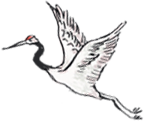
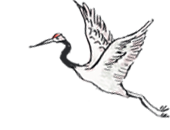
Signed-off-by: zhangbo8264 <zhangbo8264@163.com>

Changed region(s): [[0.0, 0.0, 1.0, 0.9917]]

diff --git a/main.html b/main.html
@@ -107,6 +107,7 @@
 		        <img class="p2-sun run" id="sun01" src="images/sun.png" /> 
 		        <img class="bird run" id="bird01" src="images/bird.png" />
 		        <img class="bird run" id="bird02" src="images/crane-n.png" />
+		        <img class="bird run" id="bird03" src="images/crane-x.png" />
 		        <div class="run" id="tree">
 		        	<img class="tree" src="images/tree.png" />
 		        	<img class="run flower" id="flower01" src="images/flower.png" />
@@ -134,6 +135,22 @@
 						<img class="p3-text run" id="pt04" src="images/team.png" />
 					</div>
 				</div>
+				<div class="boat" id="boat">
+					<img class="p3-boat run" id="p3-boat" src="images/boat.png" />
+					<div>
+						<img class="p3-text run" id="pt05" src="images/team.png" />
+						<img class="p3-text run" id="pt06" src="images/team.png" />
+						<img class="p3-text run" id="pt07" src="images/team.png" />
+					</div>
+				</div>
+				<!-- <div class="boat">
+					<img class="p3-boat run" id="p3-boat" src="" />
+					<div>
+						<img class="p3-text run" id="pt08" src="images/team.png" />
+						<img class="p3-text run" id="pt09" src="images/team.png" />
+						<img class="p3-text run" id="pt00" src="images/team.png" />
+					</div>
+				</div> -->
 	    	</div>
 	    </section>
 
@@ -149,9 +166,6 @@
 			}
 		};
 		
-
-
-
 
 		var fadeCss=function(t,o,definedCss){
 			return 'top:'+t+'px;opacity:'+o+';';
@@ -221,7 +235,7 @@
 		bgAction('text05',[0.5,0.7],'bottom',50);
 		bgAction('text06',[0.6,0.8],'bottom',50);
 		bgAction('text07',[0.7,0.9],'bottom',50);
-		bgAction('text08',[0.8,0.1],'bottom',50);
+		bgAction('text08',[0.8,1],'bottom',50);
 		document.getElementById('text09').set=function(set,w,h,W,H){
 			set.begin({
 				per: 0.9,
@@ -258,6 +272,79 @@
 				x: W,
 				y: 0.5*H-0.5*h,
 				opacity:1
+			}).then({
+				per: 0.43,
+				x: W*0.84,
+				y: (H-h)*0.43,
+				opacity:0
+			}).then({
+				per: 0.46,
+				x: W*0.70,
+				y: (H-h)*0.36,
+				opacity:1
+			}).then({
+				per: 0.49,
+				x: W*0.56,
+				y: (H-h)*0.29,
+				opacity:0
+			}).then({
+				per: 0.52,
+				x: W*0.42,
+				y: (H-h)*0.22,
+				opacity:1
+			}).then({
+				per: 0.55,
+				x: W*0.28,
+				y: (H-h)*0.15,
+				opacity:0
+			}).then({
+				per: 0.58,
+				x: W*0.14,
+				y: (H-h)*0.08,
+				opacity:1
+			}).end({
+				per:0.6,
+				x: 0,
+				y: 0,
+				opacity:0
+			});
+		};
+		document.getElementById('bird03').set = function(set,w,h,W,H){
+			set.begin({
+				per: 0.4,
+				x: W,
+				y: (H-h),
+				opacity:0
+			}).then({
+				per: 0.43,
+				x: W*0.84,
+				y: (H-h)*0.43,
+				opacity:1
+			}).then({
+				per: 0.46,
+				x: W*0.70,
+				y: (H-h)*0.36,
+				opacity:0
+			}).then({
+				per: 0.49,
+				x: W*0.56,
+				y: (H-h)*0.29,
+				opacity:1
+			}).then({
+				per: 0.52,
+				x: W*0.42,
+				y: (H-h)*0.22,
+				opacity:0
+			}).then({
+				per: 0.55,
+				x: W*0.28,
+				y: (H-h)*0.15,
+				opacity:1
+			}).then({
+				per: 0.58,
+				x: W*0.14,
+				y: (H-h)*0.08,
+				opacity:0
 			}).end({
 				per:0.6,
 				x: 0,

diff --git a/css/style.css b/css/style.css
@@ -344,7 +344,7 @@ section{position:absolute;top:0;right:0;bottom:0;left:0;}
 	max-width:80px;margin-left:-40px;
 }
 
-.bird{opacity:0; 
+.bird{position:absolute;top:0;left:0;opacity:0; 
 		-webkit-transform:scale(2,2);
 		transform:scale(2,2);
 }
@@ -378,7 +378,7 @@ section{position:absolute;top:0;right:0;bottom:0;left:0;}
 		left:0;margin-left:0;
 		opacity:0;
 	}
-	.bird{
+	.bird{position:absolute;top:0;left:0;
 		-webkit-transform:scale(1,1);
 		transform:scale(1,1);
 	}
